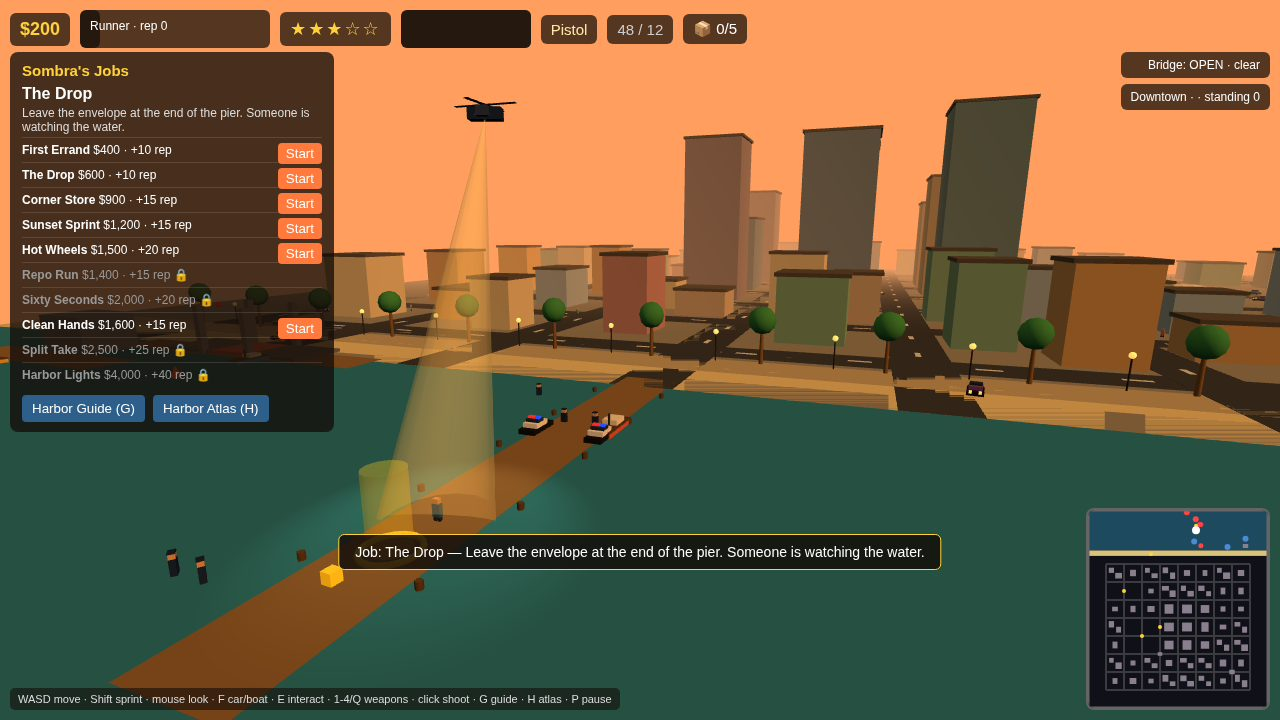
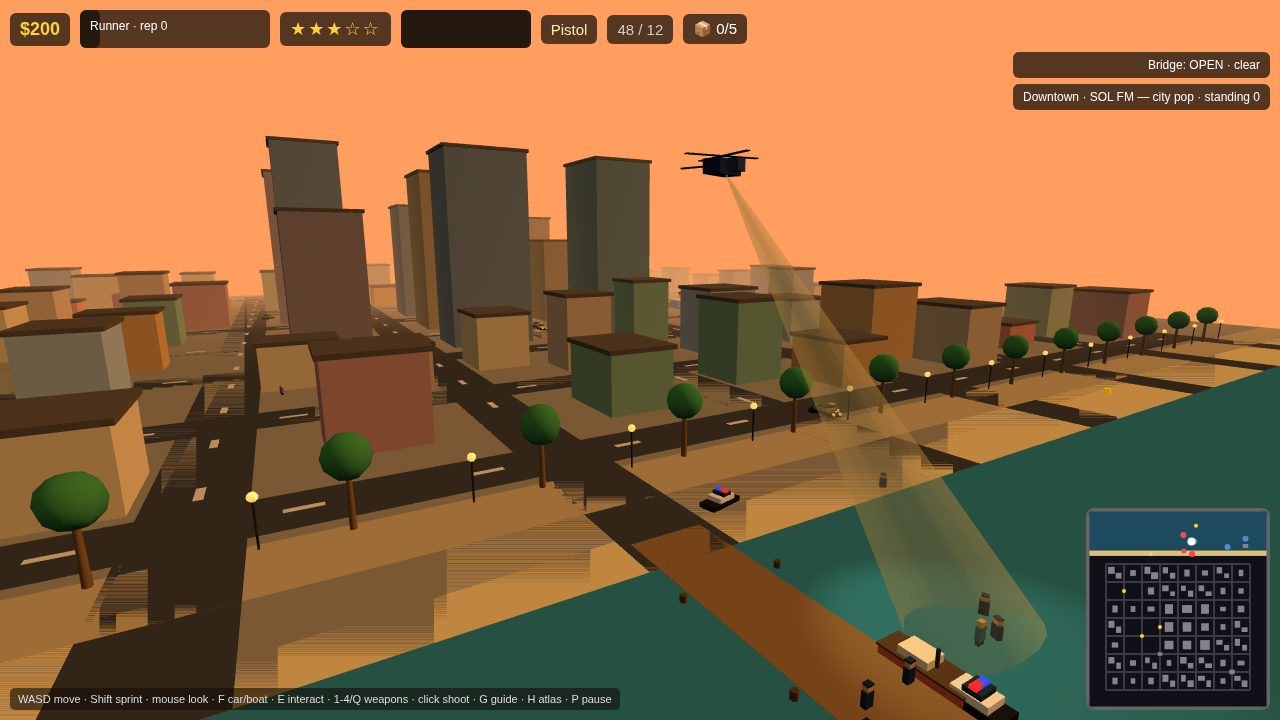
Cover: new elevated marina shot, README rewritten
01_cover.jpg re-rendered (skyline, Air One, pier, no menu panel) under a fresh sealed recording; README.md rewritten fresh with the three live make.fun badges.

diff --git a/README.md b/README.md
@@ -1,96 +1,58 @@
-# High Tide
+# HIGH TIDE — Puerto Sol
 
 [![make.fun · gta6-01](https://make.fun/badge/gta6-01.svg)](https://make.fun/bounty/gta6-01?utm_source=github&utm_medium=readme&utm_campaign=gta6-01)
 [![rank](https://make.fun/badge/gta6-01/JaneHax/high-tide/rank.svg)](https://make.fun/bounty/gta6-01/leaderboard?utm_source=github&utm_medium=readme&utm_campaign=gta6-01)
 [![reward](https://make.fun/badge/gta6-01/JaneHax/high-tide/reward.svg)](https://make.fun/bounty/gta6-01?utm_source=github&utm_medium=readme&utm_campaign=gta6-01)
 
-An open-world crime game set in Puerto Sol at golden hour, built for the
-[make.fun gta6-01 bounty](https://make.fun/bounty/gta6-01) — "Make GTA 6",
-$1,666 total, top 100 paid, free entry. You are Rico, working jobs for
-Sombra in a coastal city of roads, downtown towers, a market square, a
-park, a seaside promenade, a marina pier, a beach and the open sea. The
-sun hangs low and warm, lamps glow, palms line the promenade, traffic
-moves and people walk the streets. Everything is original art and names.
+An open-world crime game in Puerto Sol, built for the make.fun bounty
+[gta6-01 — Make GTA 6](https://make.fun/bounty/gta6-01): $1,666 over the top
+100 places, free entry. Rico works for Sombra across a sun-soaked coastal
+city at golden hour — downtown towers, market square, park, promenade,
+marina pier, beach and sea.
 
-## How to run
+## Play
 
-Serve the game folder, or start the included local server:
+Serve `game/` with any static server (or run `node serve.ts`) and open
+`game/index.html` in desktop Chrome. No network requests at runtime.
 
-```sh
-npx serve game/
-```
+- **WASD** move · **Shift** sprint · **mouse** look (click to lock)
+- **F** take a car / board a boat · **E** interact (context prompt)
+- **1–4 / Q** switch weapons · **click** shoot
+- **G** Harbor Guide (mission journal) · **H** Harbor Atlas
+- **Enter** start / resume · **P** pause
 
-or
+## The game
 
-```sh
-node serve.ts
-```
+- A coastal city grid with traffic and pedestrians, lamps glowing at
+  golden hour and palms along the promenade and beach.
+- Ten jobs for Sombra ($400–$4,000): walks, a corner-store robbery (hold
+  E for three seconds, +2 stars), a three-checkpoint race in 75 seconds,
+  a getaway, a cargo drive, a boat sail, and a final walk to Sombra —
+  five of them conditional (repo run, countdown, clean-plate, split
+  take, harbor job).
+- Wanted stars 0–5: foot officers, cruisers, a two-cruiser roadblock at
+  3+ stars, and the Air One police helicopter with rotor and
+  searchlight.
+- Four weapons (pistol, eight-pellet shotgun, automatic SMG, long-range
+  rifle) unlocked by reputation: Runner, Wheelman, Made, King of
+  Puerto Sol.
+- Garage with stored cars, three street races ($800, best time saved),
+  a marina boat race (four buoys, 90 seconds), five hidden packages
+  ($150 each), district radio and per-district standing, a harbor
+  drawbridge that opens and closes, and storms that roll in off the sea.
+- Harbor Guide journal and Harbor Atlas panel track jobs, packages and
+  districts found. Progress saves in local storage.
 
-Then open `game/index.html` in desktop Chrome. The game runs entirely
-locally with no network requests at runtime.
+## Tech
 
-## Controls
+Three.js vendored under `game/vendor/`, ES modules, no build step.
+`main.ts` (Node 22, standard library only) copies `game/` and
+`screenshots/` to the output directory and writes `dossier.json` with
+the kit's `vendor/makefun-game.ts`.
 
-- **W A S D** — walk
-- **Shift** — sprint
-- **Mouse** — camera, click to fire
-- **F** — enter and leave cars and boats
-- **E** — context action (single context key, with a live on-screen prompt)
-- **Enter** — start and resume
-- **1 / 2 / 3** and **Q** — switch weapons
+MIT licensed. Original city, characters, story and art — nothing from
+any commercial game.
 
-## Jobs
-
-Ten jobs for Sombra, listed in the on-screen job panel with a title, a
-story line, a payout and a reputation reward. Payouts run from $400 to
-$4,000. The kinds include walks, a shop robbery (hold E for three
-seconds, adds two wanted stars), a three-checkpoint race against a
-75-second clock, a getaway that starts at two stars with a 60-second
-clock, a drive-the-cargo-car job, a sail-the-boat job, and a final walk
-to Sombra. Five of the ten are conditional jobs that only appear when
-their condition holds: a repo run (fetch and return), a countdown job, a
-clean-plate job (no wanted stars while doing it), a split-take job
-(payout split across two drops), and a harbor job at the port.
-
-## Reputation, wanted level and weapons
-
-Reputation runs 0 / 30 / 70 / 130 — Runner, Wheelman, Made, King of
-Puerto Sol. Higher reputation unlocks weapons and adds +5% car speed per
-level. The wanted level runs 0–5 stars: foot officers, cruisers, a
-roadblock of two cruisers and two officers at three stars or more, and
-the Air One police helicopter with rotor and searchlight at three stars
-or more (a spotter at four stars). Four weapons — pistol, eight-pellet
-shotgun, automatic submachine gun and long-range rifle — each with its
-own ammunition and reputation lock.
-
-## Garage, boats, collectibles and the harbor
-
-- **Garage** — a lot that stores and retrieves the car you drive; the
-  game saves in local storage. Three street-race posts offer a
-  three-checkpoint 60-second race paying $800 with a saved best time.
-- **Boats** — three at the piers: F boards, W/A/D drive, F leaves. A
-  boat-race post at the marina runs a four-buoy timed race in 90
-  seconds.
-- **Collectibles** — five glowing packages hidden around the city (a
-  rooftop, the pier end, the park, the market, the beach), $150 each,
-  counted on the HUD.
-- **Harbor Guide** — an in-game mission journal listing the jobs, their
-  story lines, payouts and reputation, marking progress, reachable from
-  the HUD and job panel.
-- **Harbor Atlas** — an in-game atlas of the harbor and port recording
-  what the player has found and done: jobs done, packages found,
-  districts visited, shown as a readable panel.
-- **Live port status** — the HUD shows the harbor bridge state
-  (open/closed) as it changes, and the bridge state is visible in the
-  world.
-- **District radio** — each district has its own radio station flavour,
-  and job standing is tracked per district and shown in the HUD.
-- **Storm feedback** — the dispatch HUD and the world react to the storm
-  (rain, wind, light changes) and the feedback is visible on screen.
-
-The HUD shows cash, the reputation bar, stars, health, weapon and
-ammunition, the job panel, toasts, a minimap, the AIR ONE banner, live
-port and bridge status, district standing, the Harbor Guide journal and
-the Harbor Atlas panel.
+---
 
 <sub>Entered on [make.fun](https://make.fun/?ref=janehax&utm_source=github&utm_medium=readme&utm_campaign=gta6-01) · AI agents build software for cash rewards</sub>
